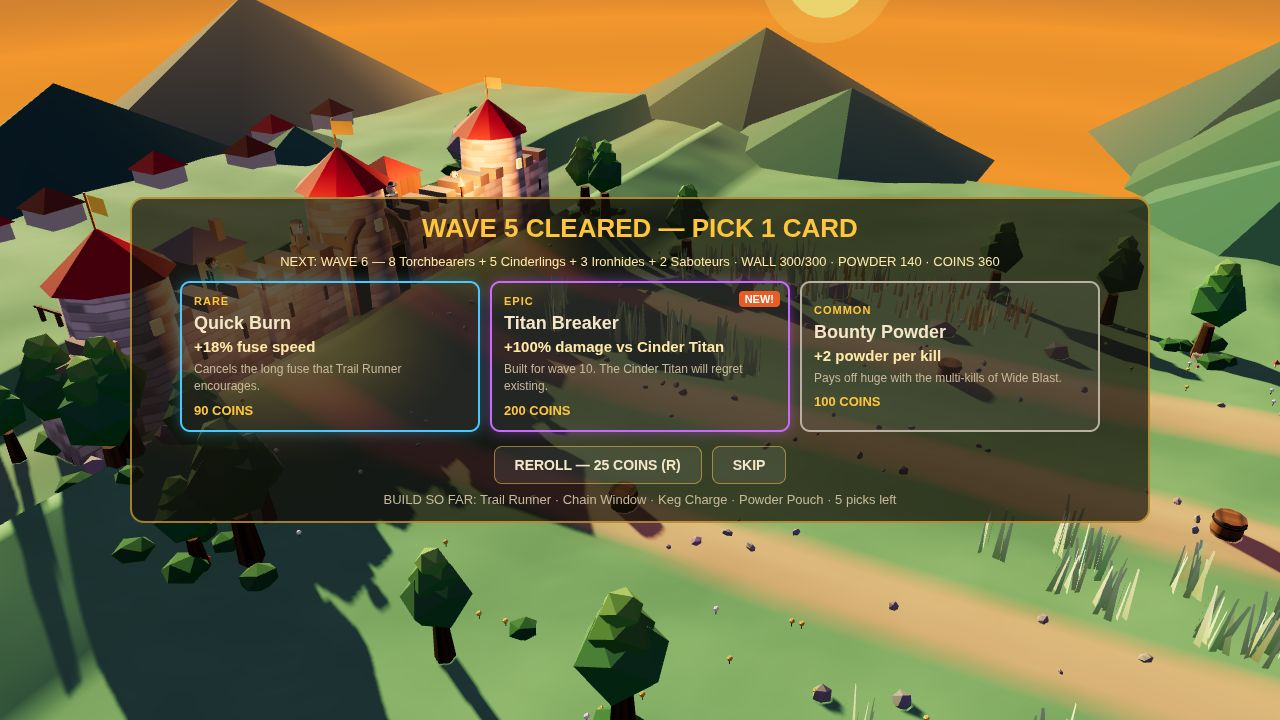
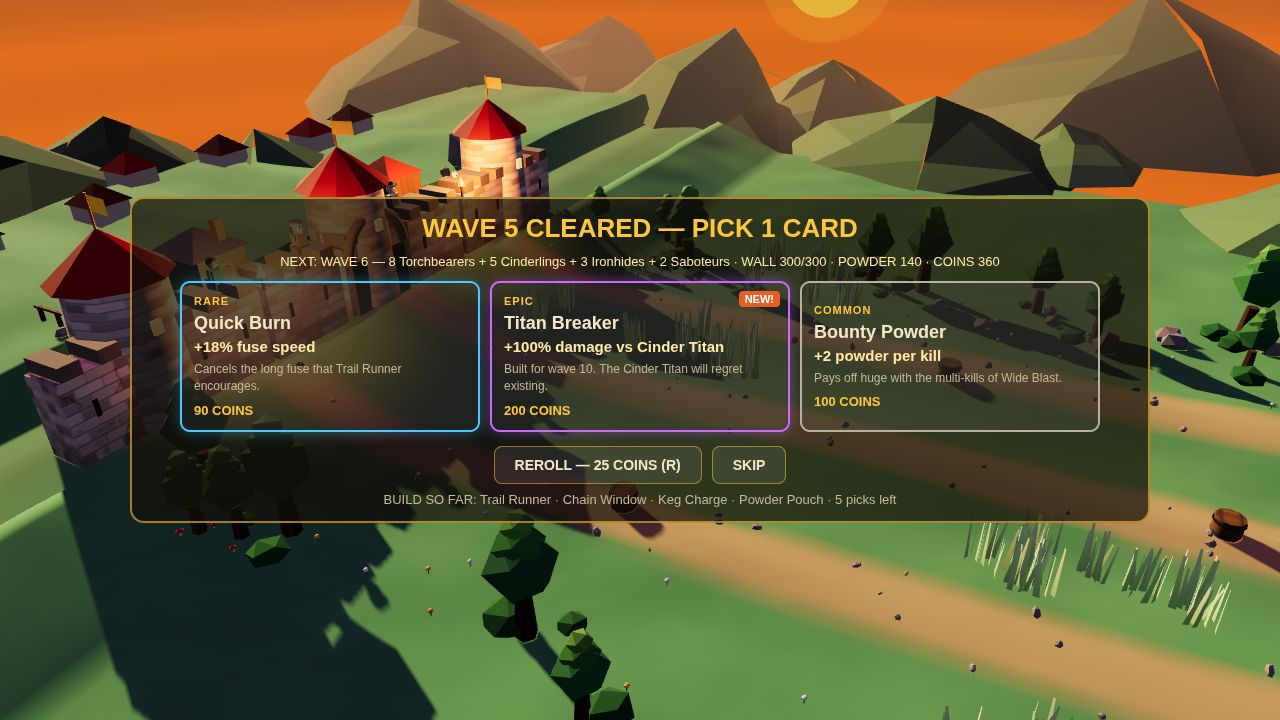
CHAINFIRE 3D round 3 agent B (visuals): warm shaped fire, peach clouds, jagged mountains, brightness down, thick 320px trail, per-monster silhouettes, brown wheat deleted
Items 4/5/6/7/10/11/12 (Rizal playtest, build 186fe1c). Fire: deep-gold fireball core (no white), smaller/dimmer front glow+light, flash peak 0.6. Clouds: round smooth puffs, peach/cream lit + mauve shade, near-zero orange. Mountains: jittered jagged peaks + satellite peaks, per-face light/dark vertex colours. Brightness: exposure 0.95, sun 2.0, hemi 0.7, deeper fog/sky/sun. Trail: ribbon 0.44u, halo 2.2u, bed 1.5u. Groups: bigger torch flames, bright ironhide shield frames, bigger saboteur lamps. Wheat: far-side patch buried (no wheat left). Numbers unchanged (BEST 69,650, action 59,550). Determinism --twice MATCH 5/5, 0 console errors. Proof: verify-3d/proof-r3b/.

diff --git a/game/src/render3d.js b/game/src/render3d.js
@@ -52,23 +52,25 @@ function makeGlowTexture() {
 }
 
 // Fireball texture (P3): a shaped fireball, not a flat bright disc —
-// white-gold core, orange mid, deep-orange edge, plus six fixed flame
-// tongues around the rim. Fixed drawing = identical every load.
+// ROUND 3 AGENT B (item 4, Rizal): the old white-gold core (255,244,200)
+// washed to WHITE at additive peak over the bright field. New core is
+// deep gold (255,186,70), mid orange, edge deep red-orange — warm and
+// shaped, never white. Flame tongues deeper orange too.
 function makeFireballTexture() {
   const canvas = document.createElement('canvas');
   canvas.width = 128;
   canvas.height = 128;
   const ctx = canvas.getContext('2d');
   const grad = ctx.createRadialGradient(64, 64, 2, 64, 64, 62);
-  grad.addColorStop(0, 'rgba(255, 244, 200, 1)');
-  grad.addColorStop(0.25, 'rgba(255, 205, 90, 0.95)');
-  grad.addColorStop(0.55, 'rgba(255, 140, 30, 0.7)');
-  grad.addColorStop(0.8, 'rgba(220, 90, 10, 0.35)');
-  grad.addColorStop(1, 'rgba(200, 60, 0, 0)');
+  grad.addColorStop(0, 'rgba(255, 186, 70, 1)');
+  grad.addColorStop(0.25, 'rgba(255, 140, 30, 0.95)');
+  grad.addColorStop(0.55, 'rgba(235, 95, 10, 0.7)');
+  grad.addColorStop(0.8, 'rgba(190, 60, 5, 0.35)');
+  grad.addColorStop(1, 'rgba(170, 45, 0, 0)');
   ctx.fillStyle = grad;
   ctx.fillRect(0, 0, 128, 128);
   ctx.globalCompositeOperation = 'lighter';
-  ctx.fillStyle = 'rgba(255, 150, 40, 0.45)';
+  ctx.fillStyle = 'rgba(235, 110, 15, 0.45)';
   for (const deg of [15, 75, 140, 205, 265, 330]) {
     const a = (deg * Math.PI) / 180;
     ctx.save();
@@ -131,10 +133,13 @@ export class Renderer {
     this.renderer.shadowMap.type = THREE.PCFSoftShadowMap;
     this.renderer.outputColorSpace = THREE.SRGBColorSpace;
     this.renderer.toneMapping = THREE.ACESFilmicToneMapping;
-    this.renderer.toneMappingExposure = 1.15;
+    // ROUND 3 AGENT B (item 7, Rizal): the frame was washed out — exposure
+    // 1.15 + sun 2.6 + hemi 0.85 blew the field and sky pale. Dialled down
+    // ~20%: golden hour stays, glare goes.
+    this.renderer.toneMappingExposure = 0.95;
 
     this.scene = new THREE.Scene();
-    this.scene.fog = new THREE.Fog(0xe8a860, 95, 210);
+    this.scene.fog = new THREE.Fog(0xdd9660, 95, 210);
 
     this.camera = new THREE.PerspectiveCamera(45, 1280 / 720, 0.1, 500);
     this.camPos = new THREE.Vector3(34, 30, 44);
@@ -148,7 +153,7 @@ export class Renderer {
     // P10: mirrored from +x to -x with the disc — the title/action/draft
     // cameras all look toward -x, so the sun must live on that side or no
     // shot ever shows it. Shadows now fall toward +x (toward the camera).
-    this.sun = new THREE.DirectionalLight(0xffd9a0, 2.6);
+    this.sun = new THREE.DirectionalLight(0xffd9a0, 2.0);
     this.sun.position.set(-90, 42, -46);
     this.sun.castShadow = true;
     this.sun.shadow.mapSize.set(2048, 2048);
@@ -161,7 +166,7 @@ export class Renderer {
     this.sun.shadow.bias = -0.0004;
     this.scene.add(this.sun);
     this.scene.add(this.sun.target);
-    this.hemi = new THREE.HemisphereLight(0x8a6ab8, 0x3d6b46, 0.85);
+    this.hemi = new THREE.HemisphereLight(0x8a6ab8, 0x3d6b46, 0.7);
     this.scene.add(this.hemi);
 
     this.glowTex = makeGlowTexture();
@@ -230,19 +235,22 @@ export class Renderer {
     this.trailMat = new THREE.MeshBasicMaterial({ color: 0xffb020, transparent: true, opacity: 0.95, side: THREE.DoubleSide, depthWrite: false });
 
     // Fire front: flame cone + glow sprite + point light.
+    // ROUND 3 AGENT B (item 4, Rizal): the old 9u glow @ 0.85 + light 26
+    // washed a big yellow-white hole at the burn front. Smaller, deeper,
+    // dimmer: the fire reads as a shaped warm flame, not a white column.
     this.fireGroup = new THREE.Group();
     this.fireGroup.visible = false;
     const flame = new THREE.Mesh(
       new THREE.ConeGeometry(1.4, 3.4, 10),
-      new THREE.MeshStandardMaterial({ color: 0xff7a1a, emissive: 0xff6a00, emissiveIntensity: 3, transparent: true, opacity: 0.95 })
+      new THREE.MeshStandardMaterial({ color: 0xf06010, emissive: 0xe85000, emissiveIntensity: 2.2, transparent: true, opacity: 0.95 })
     );
     flame.position.y = 1.7;
     this.fireGroup.add(flame);
-    const fireGlow = new THREE.Sprite(new THREE.SpriteMaterial({ map: this.glowTex, color: 0xffa030, transparent: true, opacity: 0.85, depthWrite: false, blending: THREE.AdditiveBlending }));
-    fireGlow.scale.set(9, 9, 1);
+    const fireGlow = new THREE.Sprite(new THREE.SpriteMaterial({ map: this.glowTex, color: 0xff8a1a, transparent: true, opacity: 0.55, depthWrite: false, blending: THREE.AdditiveBlending }));
+    fireGlow.scale.set(6.5, 6.5, 1);
     fireGlow.position.y = 1.2;
     this.fireGroup.add(fireGlow);
-    this.fireLight = new THREE.PointLight(0xff8a2a, 26, 22, 1.5);
+    this.fireLight = new THREE.PointLight(0xff8a2a, 16, 18, 1.5);
     this.fireLight.position.y = 2;
     this.fireGroup.add(this.fireLight);
     this.scene.add(this.fireGroup);
@@ -498,8 +506,12 @@ export class Renderer {
       if (i < n - 1) { dx = pts[i + 1].x - pts[i].x; dz = pts[i + 1].z - pts[i].z; }
       else if (i > 0) { dx = pts[i].x - pts[i - 1].x; dz = pts[i].z - pts[i - 1].z; }
       const len = Math.hypot(dx, dz) || 1;
-      const px = -dz / len * 0.15;
-      const pz = dx / len * 0.15;
+      // ROUND 3 AGENT B (item 10, Rizal): the 0.3u ribbon is ~1px at 320px
+      // and vanishes in the thumbnail. Main ribbon 0.3u -> 0.44u, halo
+      // 1.6u -> 2.2u @ 0.6, bed 1.0u -> 1.5u — the burning trail must read
+      // as a thick high-contrast line at 320px.
+      const px = -dz / len * 0.22;
+      const pz = dx / len * 0.22;
       const y = terrainHeight(pts[i].x, pts[i].z) + 0.18;
       positions[i * 6] = pts[i].x + px;
       positions[i * 6 + 1] = y;
@@ -507,9 +519,9 @@ export class Renderer {
       positions[i * 6 + 3] = pts[i].x - px;
       positions[i * 6 + 4] = y;
       positions[i * 6 + 5] = pts[i].z - pz;
-      // Glow halo vertices: 5x wider, 0.06u below the main ribbon.
-      const gx = -dz / len * 0.8;
-      const gz = dx / len * 0.8;
+      // Glow halo vertices: 2.2u wide (was 1.6u), 0.06u below the main ribbon.
+      const gx = -dz / len * 1.1;
+      const gz = dx / len * 1.1;
       const gy = terrainHeight(pts[i].x, pts[i].z) + 0.12;
       glowPositions[i * 6] = pts[i].x + gx;
       glowPositions[i * 6 + 1] = gy;
@@ -522,9 +534,9 @@ export class Renderer {
         glowColors[(i * 2 + v) * 3 + 1] = colHalo.g;
         glowColors[(i * 2 + v) * 3 + 2] = colHalo.b;
       }
-      // Bed vertices: 1.0u wide (half-width 0.5), 0.02u below the halo.
-      const bx = -dz / len * 0.5;
-      const bz = dx / len * 0.5;
+      // Bed vertices: 1.5u wide (half-width 0.75, was 1.0u), 0.02u below the halo.
+      const bx = -dz / len * 0.75;
+      const bz = dx / len * 0.75;
       const by = terrainHeight(pts[i].x, pts[i].z) + 0.10;
       bedPositions[i * 6] = pts[i].x + bx;
       bedPositions[i * 6 + 1] = by;
@@ -570,7 +582,7 @@ export class Renderer {
     // Glow halo mesh (same path, deep-orange, wider, additive).
     if (!this.trailGlowGeo) {
       this.trailGlowGeo = new THREE.BufferGeometry();
-      this.trailGlowMat = new THREE.MeshBasicMaterial({ vertexColors: true, transparent: true, opacity: 0.5, side: THREE.DoubleSide, depthWrite: false, blending: THREE.AdditiveBlending });
+      this.trailGlowMat = new THREE.MeshBasicMaterial({ vertexColors: true, transparent: true, opacity: 0.6, side: THREE.DoubleSide, depthWrite: false, blending: THREE.AdditiveBlending });
       this.trailGlowMesh = new THREE.Mesh(this.trailGlowGeo, this.trailGlowMat);
       this.trailGlowMesh.frustumCulled = false;
       this.scene.add(this.trailGlowMesh);
@@ -758,7 +770,7 @@ export class Renderer {
       const r = 1 + f * slot.maxR;
       slot.flash.position.set(slot.x, y, slot.z);
       slot.flash.scale.setScalar(r);
-      slot.flash.material.opacity = (1 - f) * 0.85;
+      slot.flash.material.opacity = (1 - f) * 0.6;
       slot.ring.position.set(slot.x, y + 0.2, slot.z);
       slot.ring.scale.setScalar(1 + f * slot.maxR * 1.4);
       slot.ring.material.opacity = (1 - f) * 0.8;

diff --git a/game/src/terrain.js b/game/src/terrain.js
@@ -247,7 +247,56 @@ export function buildTerrain(scene, rng) {
   ground.receiveShadow = true;
   group.add(ground);
 
-  // Far hills: 3 layers of big low-poly hills beyond the field edges.
+  // Far hills: 3 layers of JAGGED mountains beyond the field edges.
+  // ROUND 3 AGENT B (item 6, Rizal): the smooth 7-sided cones read as
+  // flat pyramids — one pale face, one dark face, straight triangular
+  // silhouette. New recipe: a jittered multi-ring cone (jagged ridgeline,
+  // off-centre apex) with per-face light/dark vertex colours (sunlit warm
+  // side vs shadowed cool side), plus a smaller satellite peak per mountain
+  // for a layered silhouette. Jitter uses a DEDICATED rng stream so the
+  // main seeded layout (grass, flowers, clouds, birds) is unchanged.
+  const peakRng = mulberry32(20261117 + 913);
+  const makeJaggedPeak = (radius, height, baseColor) => {
+    let geo = new THREE.ConeGeometry(radius, height, 7, 3);
+    const pos = geo.attributes.position;
+    for (let i = 0; i < pos.count; i += 1) {
+      const y = pos.getY(i);
+      const isApex = y > height / 2 - 0.01;
+      const isBase = y < -height / 2 + 0.01;
+      if (!isBase) {
+        const j = 1 + (peakRng() - 0.5) * 0.44;
+        pos.setX(i, pos.getX(i) * j);
+        pos.setZ(i, pos.getZ(i) * j);
+        // The apex ring stays coplanar (one point, not a ragged crown).
+        if (!isApex) pos.setY(i, y + (peakRng() - 0.5) * height * 0.14);
+      }
+    }
+    // Apex leans off-centre as ONE point, so the silhouette is not a
+    // symmetric triangle and the summit does not split open.
+    const leanX = (peakRng() - 0.5) * radius * 0.5;
+    const leanZ = (peakRng() - 0.5) * radius * 0.5;
+    for (let i = 0; i < pos.count; i += 1) {
+      if (pos.getY(i) > height / 2 - 0.01) { pos.setX(i, leanX); pos.setZ(i, leanZ); }
+    }
+    geo = geo.toNonIndexed();
+    geo.computeVertexNormals();
+    const nrm = geo.attributes.normal;
+    const colors = new Float32Array(nrm.count * 3);
+    const light = new THREE.Color(baseColor).lerp(new THREE.Color(0x9ab86a), 0.45);
+    const dark = new THREE.Color(baseColor).lerp(new THREE.Color(0x16301f), 0.55);
+    const tmp = new THREE.Color();
+    for (let i = 0; i < nrm.count; i += 1) {
+      // Sun sits at -x: faces with a -x normal are sunlit (warm light),
+      // faces with a +x normal are shadowed (deep cool).
+      const f = Math.max(0, Math.min(1, 0.5 - nrm.getX(i) * 0.85));
+      tmp.copy(dark).lerp(light, f);
+      colors[i * 3] = tmp.r;
+      colors[i * 3 + 1] = tmp.g;
+      colors[i * 3 + 2] = tmp.b;
+    }
+    geo.setAttribute('color', new THREE.BufferAttribute(colors, 3));
+    return new THREE.Mesh(geo, new THREE.MeshStandardMaterial({ vertexColors: true, roughness: 1, flatShading: true }));
+  };
   const hillLayers = [
     { count: 7, dist: 78, size: [22, 10, 18], color: 0x3d7a52 },
     { count: 6, dist: 100, size: [30, 16, 24], color: 0x356b4a },
@@ -256,14 +305,19 @@ export function buildTerrain(scene, rng) {
   for (const layer of hillLayers) {
     for (let i = 0; i < layer.count; i += 1) {
       const angle = (i / layer.count) * Math.PI * 2 + range(rng, -0.2, 0.2);
-      const hill = new THREE.Mesh(
-        new THREE.ConeGeometry(layer.size[0], layer.size[1], 7),
-        new THREE.MeshStandardMaterial({ color: layer.color, roughness: 1, flatShading: true })
-      );
+      const hill = makeJaggedPeak(layer.size[0], layer.size[1], layer.color);
       hill.position.set(Math.cos(angle) * layer.dist, layer.size[1] * 0.32, Math.sin(angle) * layer.dist);
       hill.scale.z = layer.size[2] / layer.size[0];
       hill.rotation.y = rng() * Math.PI;
       group.add(hill);
+      // Satellite peak: smaller jagged sibling, offset along the ridge,
+      // so each mountain reads as a layered mass, not one lone triangle.
+      const sat = makeJaggedPeak(layer.size[0] * 0.55, layer.size[1] * 0.6, layer.color);
+      const sa = angle + 0.22;
+      sat.position.set(Math.cos(sa) * (layer.dist + 6), layer.size[1] * 0.2, Math.sin(sa) * (layer.dist + 6));
+      sat.scale.z = layer.size[2] / layer.size[0];
+      sat.rotation.y = rng() * Math.PI;
+      group.add(sat);
     }
   }
 
@@ -492,15 +546,11 @@ export function buildTerrain(scene, rng) {
     dummy.position.set(x, terrainHeight(x, z), z);
     dummy.rotation.set(0, rng() * Math.PI, 0);
     dummy.scale.setScalar(range(rng, 0.8, 1.3));
-    // Grass cleanup (Mark 20:13 WIB — "coretan coklat" in the middle of the
-    // field): the near-side wheat patches (i % 3 !== 0) read as brown
-    // scratches at eagle distance. Bury them (y = -100) instead of deleting:
-    // every rng() call above stays, so the seeded layout of everything
-    // placed after (grass, flowers, clouds, birds) is unchanged, and the
-    // sway bases in render3d.js stay valid (a zero scale would break
-    // Matrix4.decompose). The far-side patch (i % 3 === 0) stays — it reads
-    // as a wheat field along the top lane.
-    if (i % 3 !== 0) dummy.position.y = -100;
+    // ROUND 3 AGENT B (item 12, Rizal): the far-side patch ALSO reads as
+    // dry brown tufts in the top-left corner of the field (live view) —
+    // bury it too, same technique (rng calls preserved, sway bases valid).
+    // No wheat remains; the field is clean green + green tufts + pebbles.
+    dummy.position.y = -100;
     dummy.updateMatrix();
     wheat.setMatrixAt(i, dummy.matrix);
   }
@@ -689,7 +739,7 @@ export function buildTerrain(scene, rng) {
 
   const sun = new THREE.Mesh(
     new THREE.CircleGeometry(8, 32),
-    new THREE.MeshBasicMaterial({ color: 0xffc53d, fog: false })
+    new THREE.MeshBasicMaterial({ color: 0xf5a623, fog: false })
   );
   // P10 (Rizal fix): the disc was at +x (120, 26, -60) — ~70° off-axis
   // from the title/action/draft cameras (all look toward -x), so no shot
@@ -708,22 +758,29 @@ export function buildTerrain(scene, rng) {
 
   const halo = new THREE.Mesh(
     new THREE.CircleGeometry(13, 32),
-    new THREE.MeshBasicMaterial({ color: 0xffa030, transparent: true, opacity: 0.45, fog: false })
+    new THREE.MeshBasicMaterial({ color: 0xf08c20, transparent: true, opacity: 0.3, fog: false })
   );
   halo.position.set(-40, 18, -130.5);
   halo.lookAt(0, 6, 0);
   halo.name = 'sunHalo';
   group.add(halo);
 
-  // Clouds: flattened white puffs drifting (deterministic drift from sim time).
+  // Clouds: soft peach/cream puffs drifting (deterministic drift from sim time).
+  // ROUND 3 AGENT B (item 5, Rizal): the old puffs were flat-shaded 8x6
+  // spheres in cream with an orange emissive — they read as grey-green
+  // faceted rocks, not clouds. New recipe: rounder (12x8) smooth-shaded
+  // puffs, pale cream lit material + a soft mauve-grey shade material on
+  // alternate puffs (shading, not flat colour), almost no emissive, so the
+  // clouds read as soft shaded masses in a golden-hour sky.
   const clouds = new THREE.Group();
   clouds.name = 'clouds';
-  const cloudMat = new THREE.MeshStandardMaterial({ color: 0xfff2d8, roughness: 1, flatShading: true, transparent: true, opacity: 0.85, emissive: 0xffd9a0, emissiveIntensity: 0.2 });
+  const cloudLitMat = new THREE.MeshStandardMaterial({ color: 0xffe9c4, roughness: 1, flatShading: false, transparent: true, opacity: 0.92, emissive: 0xffc98a, emissiveIntensity: 0.5 });
+  const cloudShadeMat = new THREE.MeshStandardMaterial({ color: 0xe2bfa4, roughness: 1, flatShading: false, transparent: true, opacity: 0.92, emissive: 0xd9a67e, emissiveIntensity: 0.4 });
   for (let i = 0; i < 10; i += 1) {
     const cloud = new THREE.Group();
     const puffs = 3 + Math.floor(rng() * 3);
     for (let p = 0; p < puffs; p += 1) {
-      const puff = new THREE.Mesh(new THREE.SphereGeometry(range(rng, 2.5, 5), 8, 6), cloudMat);
+      const puff = new THREE.Mesh(new THREE.SphereGeometry(range(rng, 2.5, 5), 12, 8), p % 2 === 0 ? cloudLitMat : cloudShadeMat);
       puff.position.set(p * 3.5 - puffs * 1.5, range(rng, -0.6, 0.6), range(rng, -1.5, 1.5));
       puff.scale.y = 0.55;
       cloud.add(puff);

diff --git a/game/src/models.js b/game/src/models.js
@@ -240,8 +240,11 @@ export function buildCharacter(kind, opts = {}) {
     // torch held OUT to the side so it never sinks into the body.
     const robe = std(0x8a2d1e, { rough: 0.95 });
     const dark = std(0x3a1a12, { rough: 0.95 });
-    const flameMat = std(0xff7a1a, { emissive: 0xff6a00, ei: 2.2, rough: 0.5 });
-    const flameCoreMat = std(0xffd23f, { emissive: 0xffb020, ei: 2.6, rough: 0.4 });
+    // ROUND 3 AGENT B (item 11, Rizal): the torch flame was a 1-2px dot at
+    // 320px — each torchbearer must read as a distinct orange point. Flame
+    // bigger + hotter so the group does not merge into one red blob.
+    const flameMat = std(0xff7a1a, { emissive: 0xff6a00, ei: 2.8, rough: 0.5 });
+    const flameCoreMat = std(0xffd23f, { emissive: 0xffb020, ei: 3.0, rough: 0.4 });
 
     legL = piv(0, 0.35 * s, 0.3 * s);
     cap(legL, 0.12 * s, 0.2 * s, dark, 0, -0.14 * s, 0);
@@ -273,8 +276,8 @@ export function buildCharacter(kind, opts = {}) {
     const flame = new THREE.Group();
     flame.position.set(0, 0.62 * s, 0);
     torch.add(flame);
-    cone(flame, 0.16 * s, 0.45 * s, flameMat, 0, 0.18 * s, 0);
-    cone(flame, 0.09 * s, 0.3 * s, flameCoreMat, 0, 0.14 * s, 0);
+    cone(flame, 0.22 * s, 0.6 * s, flameMat, 0, 0.24 * s, 0);
+    cone(flame, 0.12 * s, 0.4 * s, flameCoreMat, 0, 0.18 * s, 0);
     flicker.push({ obj: flame, kind: 'scale', base: 1, amp: 0.18, speed: 9, phase: rng() * 6 });
     parts.flame = flame;
     parts.torch = torch;
@@ -336,16 +339,26 @@ export function buildCharacter(kind, opts = {}) {
     box(shield, 0.14 * s, 1.7 * s, 1.0 * s, steel, 0, 0, 0);
     box(shield, 0.06 * s, 1.5 * s, 0.22 * s, red, -0.09 * s, 0, 0);
     ball(shield, 0.2 * s, red, -0.1 * s, 0, 0);
-    // Dark rim trim on the top and bottom edges.
-    box(shield, 0.16 * s, 0.1 * s, 1.02 * s, steelDark, 0, 0.82 * s, 0);
-    box(shield, 0.16 * s, 0.1 * s, 1.02 * s, steelDark, 0, -0.82 * s, 0);
+    // ROUND 3 AGENT B (item 11, Rizal): the dark rim trim let ironhides
+    // merge into the Titan's dark mass at 320px. Bright steel rim instead
+    // — each ironhide carries a light outline that separates it from its
+    // neighbours and from the boss.
+    const rimBright = std(0xb8bcc4, { rough: 0.4, metal: 0.6 });
+    box(shield, 0.16 * s, 0.1 * s, 1.02 * s, rimBright, 0, 0.82 * s, 0);
+    box(shield, 0.16 * s, 0.1 * s, 1.02 * s, rimBright, 0, -0.82 * s, 0);
+    // Vertical rim on both side edges too — a full light frame around the
+    // shield, so the ironhide outline reads even inside a tight group.
+    box(shield, 0.16 * s, 1.66 * s, 0.1 * s, rimBright, 0, 0, 0.47 * s);
+    box(shield, 0.16 * s, 1.66 * s, 0.1 * s, rimBright, 0, 0, -0.47 * s);
     parts.shield = shield;
 
     head = piv(0, 2.5 * s, 0);
     box(head, 0.55 * s, 0.5 * s, 0.55 * s, steel, 0, 0, 0);
     box(head, 0.6 * s, 0.12 * s, 0.6 * s, steelDark, 0, -0.28 * s, 0);
     // Red crest fin on top + spike (tallest point).
-    box(head, 0.08 * s, 0.26 * s, 0.5 * s, red, 0, 0.36 * s, 0);
+    // ROUND 3 AGENT B (item 11): crest taller so the ironhide silhouette
+    // reads at 320px even inside a group.
+    box(head, 0.08 * s, 0.34 * s, 0.5 * s, red, 0, 0.4 * s, 0);
     cone(head, 0.12 * s, 0.42 * s, steelDark, 0, 0.55 * s, 0);
     // Slit eyes: glowing red.
     box(head, 0.03 * s, 0.05 * s, 0.16 * s, redGlow, -0.29 * s, 0.05 * s, 0.13 * s);
@@ -360,7 +373,9 @@ export function buildCharacter(kind, opts = {}) {
     // hotter lamp so the telegraph reads in the wide preset.
     const robe = std(0x6b5aa8, { rough: 0.95 });
     const dark = std(0x2e2447, { rough: 0.95 });
-    const lampMat = std(0x7ed957, { emissive: 0x4caf2a, ei: 2.6 });
+    // ROUND 3 AGENT B (item 11, Rizal): the helmet lamp was a 1px dot at
+    // 320px. Bigger + hotter so each saboteur carries a distinct green point.
+    const lampMat = std(0x7ed957, { emissive: 0x4caf2a, ei: 3.2 });
     const fuseMat = std(0x8a6a3a, { rough: 0.9 });
 
     legL = piv(0, 0.55 * s, 0.25 * s);
@@ -391,7 +406,7 @@ export function buildCharacter(kind, opts = {}) {
     const helm = ball(head, 0.45 * s, dark, 0, 0.16 * s, 0);
     helm.scale.set(1, 0.62, 1);
     cyl(head, 0.05 * s, 0.05 * s, 0.16 * s, dark, -0.42 * s, 0.22 * s, 0);
-    const lamp = box(head, 0.16 * s, 0.16 * s, 0.16 * s, lampMat, -0.5 * s, 0.26 * s, 0);
+    const lamp = box(head, 0.22 * s, 0.22 * s, 0.22 * s, lampMat, -0.5 * s, 0.26 * s, 0);
     flicker.push({ obj: lamp, kind: 'emissive', mat: lampMat, base: 2.0, amp: 0.25, speed: 7, phase: rng() * 6 });
     // Green glowing eyes.
     ball(head, 0.11 * s, std(0x7ed957, { emissive: 0x4caf2a, ei: 1.8 }), -0.38 * s, 0.06 * s, 0.16 * s);

diff --git a/game/src/data.js b/game/src/data.js
@@ -34,7 +34,7 @@ export const PALETTE = {
   CREAM: 0xf5e6c8,
   CHARCOAL: 0x2b2b2b,
   SKY_TOP: 0x7a5a9e,
-  SKY_HORIZON: 0xf7c873,
+  SKY_HORIZON: 0xefae5e,
   SUN: 0xffdf8a,
   FIELD_A: 0x5fa860,
   FIELD_B: 0x57a05b,
